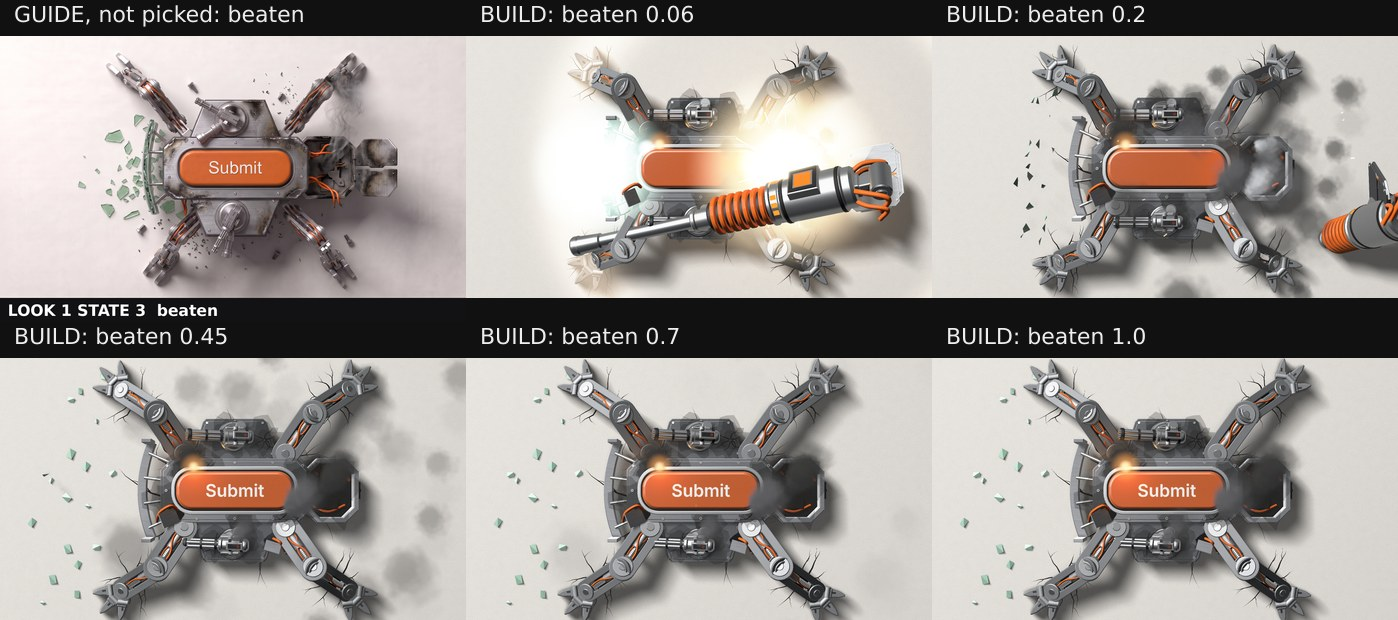
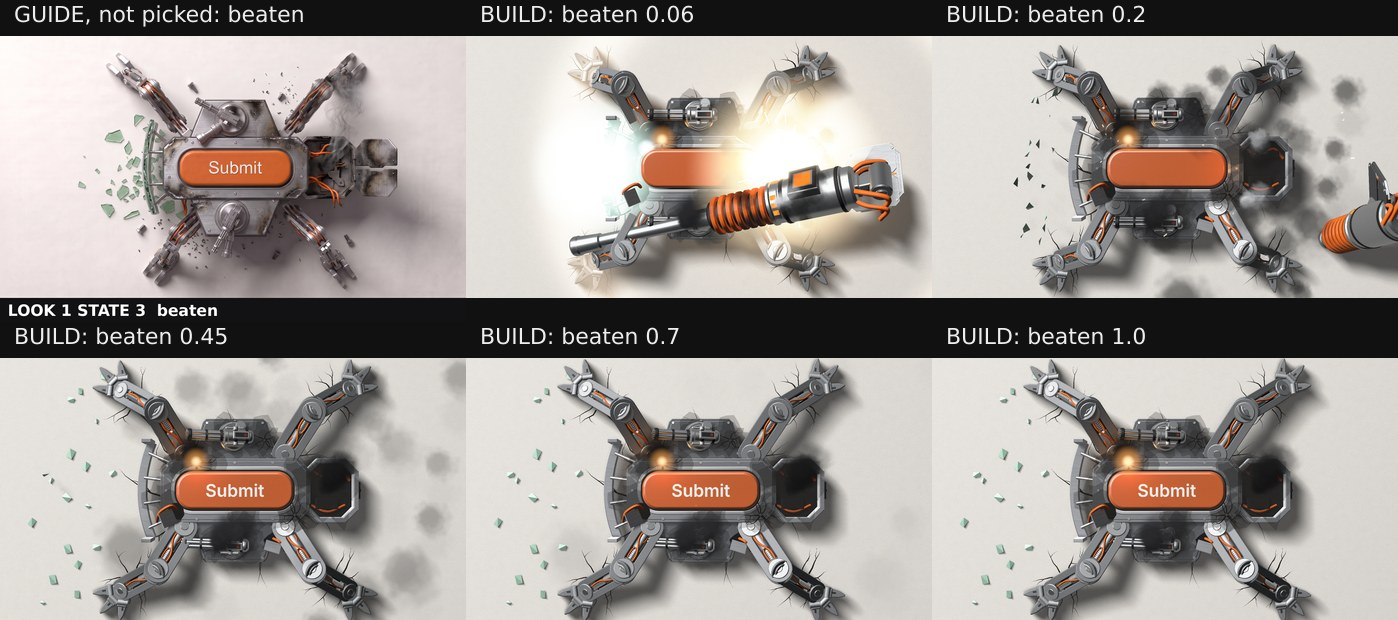
bosslook: smoke that reads dark, scorch on the plates that show, the open flank ringed, counts of the boss alone

diff --git a/src/boss/look1/fx.ts b/src/boss/look1/fx.ts
@@ -21,10 +21,10 @@ export interface Fx {
 const ORANGE: [number, number, number] = [1, 0.42, 0.1]
 const HOT: [number, number, number] = [1, 0.82, 0.55]
 const DUST: [number, number, number] = [0.42, 0.4, 0.37]
-const SMOKE: [number, number, number] = [0.085, 0.085, 0.09]
+const SMOKE: [number, number, number] = [0.018, 0.018, 0.02]
 const STEAM: [number, number, number] = [0.56, 0.57, 0.59]
 const SHADE: [number, number, number] = [0.05, 0.048, 0.045]
-const SOOT: [number, number, number] = [0.022, 0.021, 0.02]
+const SOOT: [number, number, number] = [0.006, 0.006, 0.006]
 
 function texture(alpha: (u: number, v: number) => number, n = 64): THREE.DataTexture {
   const data = new Uint8Array(n * n * 4)
@@ -75,8 +75,8 @@ class Sprites {
   private s = new THREE.Vector3()
   private c = new THREE.Color()
   private fade: THREE.InstancedBufferAttribute | null = null
-  constructor(private max: number, map: THREE.Texture, private additive: boolean, order: number) {
-    const mat = new THREE.MeshBasicMaterial({ map, transparent: true, depthWrite: false, blending: additive ? THREE.AdditiveBlending : THREE.NormalBlending, toneMapped: true })
+  constructor(private max: number, map: THREE.Texture, private additive: boolean, order: number, depth = true) {
+    const mat = new THREE.MeshBasicMaterial({ map, transparent: true, depthWrite: false, depthTest: depth, blending: additive ? THREE.AdditiveBlending : THREE.NormalBlending, toneMapped: true })
     const geo = new THREE.PlaneGeometry(1, 1)
     if (!additive) {
       this.fade = new THREE.InstancedBufferAttribute(new Float32Array(max), 1)
@@ -163,17 +163,19 @@ export function makeFx(o: LookOptions, level0: Level): Fx {
   const budget = (): { chunks: number; puffs: number; lamps: number } => COUNTS[level ?? 'film']
 
   const tex = { blob: texture(blob), puff: texture(puff, 128), ring: texture(ring, 128), bar: texture(bar, 32) }
-  const soft = new Sprites(360, tex.puff, false, 40)
-  const lit = (c: [number, number, number], k: number): [number, number, number] => [Math.min(1, c[0] * k + 0.02), Math.min(1, c[1] * k + 0.02), Math.min(1, c[2] * k + 0.02)]
+  const soft = new Sprites(260, tex.puff, false, 40, false)
+  const shade = new Sprites(130, tex.puff, false, 39)
+  const marks = new Sprites(8, tex.ring, false, 45, false)
+  const lit = (c: [number, number, number], k: number): [number, number, number] => [Math.min(1, c[0] * k + 0.003), Math.min(1, c[1] * k + 0.003), Math.min(1, c[2] * k + 0.003)]
   // Each puff is laid twice, a darker underside and a lighter top pushed toward the light, and throws a faint shade on the ground: that is all its volume.
   const smoke = {
     add(x: number, y: number, z: number, w: number, h: number, turn: number, colour: [number, number, number], a: number): void {
       if (a <= 0.003) return
-      if (z > 6) soft.add(x + z * 0.32, y - z * 0.42, 1.2, w * 1.15, h * 1.15, turn, SHADE, a * 0.3)
+      if (z > 6) shade.add(x + z * 0.32, y - z * 0.42, 1.2, w * 1.15, h * 1.15, turn, SHADE, a * 0.3)
       soft.add(x + w * 0.05, y - h * 0.05, z, w, h, turn, lit(colour, 0.55), a)
       soft.add(x - w * 0.07, y + h * 0.07, z + 0.4, w * 0.8, h * 0.8, turn + 1.7, lit(colour, 1.5), a * 0.85)
     },
-    begin: (): void => soft.begin(), end: (): void => soft.end(), dispose: (): void => soft.dispose(), mesh: soft.mesh
+    begin: (): void => { soft.begin(); shade.begin() }, end: (): void => { soft.end(); shade.end() }, dispose: (): void => { soft.dispose(); shade.dispose() }, mesh: soft.mesh
   }
   const glow = new Sprites(160, tex.blob, true, 50)
   const rings = new Sprites(24, tex.ring, true, 51)
@@ -211,7 +213,7 @@ export function makeFx(o: LookOptions, level0: Level): Fx {
     ground.add(m)
     return m
   })
-  object.add(ground, chunks.mesh, shards.mesh, balls.mesh, smoke.mesh, glow.mesh, rings.mesh, bars.mesh)
+  object.add(ground, chunks.mesh, shards.mesh, balls.mesh, shade.mesh, smoke.mesh, marks.mesh, glow.mesh, rings.mesh, bars.mesh)
 
   const rnd = (i: number, j: number): number => hash01(i, j, o.seed)
 
@@ -238,7 +240,7 @@ export function makeFx(o: LookOptions, level0: Level): Fx {
       const u = age / life
       const j = (rnd(k + id * 977, 31) - 0.5) * 2
       const s = size * (0.5 + 1.5 * u) * (0.8 + 0.4 * rnd(k + id * 977, 32))
-      smoke.add(x + (dx + 10 * j) * u * life, y + (dy + 8 * j) * u * life, z + 8 + 50 * u, s, s, rnd(k + id * 977, 33) * 6.28, colour, strength * Math.sin(Math.PI * Math.pow(u, 0.6)) * 0.9)
+      smoke.add(x + (dx + 10 * j) * u * life, y + (dy + 8 * j) * u * life, z + 6 + 34 * u, s, s, rnd(k + id * 977, 33) * 6.28, colour, strength * Math.sin(Math.PI * Math.pow(u, 0.6)) * 0.9)
     }
   }
   // Sparks thrown from a place at one moment.
@@ -280,7 +282,7 @@ export function makeFx(o: LookOptions, level0: Level): Fx {
       lamps++
       light({ x: x + 960, y: 540 - y, z, colour, power, reach })
     }
-    smoke.begin(); glow.begin(); rings.begin(); bars.begin(); chunks.begin(); shards.begin(); balls.begin()
+    smoke.begin(); marks.begin(); glow.begin(); rings.begin(); bars.begin(); chunks.begin(); shards.begin(); balls.begin()
 
     // The forming.
     const tf = f * TIMES.form
@@ -366,10 +368,10 @@ export function makeFx(o: LookOptions, level0: Level): Fx {
         }
       }
       if (b.locked || t >= 1) {
-        const [s1x, s1y] = fromBody(p, HATCH.cx + 70, 96)
-        const [s2x, s2y] = fromBody(p, HATCH.cx + 40, -100)
-        plume(s1x, s1y, 70, now, 0.14, 1.4, 5, 30, STEAM, 0.75, 12, 22)
-        plume(s2x, s2y, 70, now, 0.17, 1.3, 6, 26, STEAM, 0.65, 16, -10)
+        const [s1x, s1y] = fromBody(p, HATCH.cx + 86, 132)
+        const [s2x, s2y] = fromBody(p, HATCH.cx + 60, -138)
+        plume(s1x, s1y, 44, now, 0.16, 1.4, 5, 24, STEAM, 0.5, 14, 6)
+        plume(s2x, s2y, 44, now, 0.19, 1.3, 6, 21, STEAM, 0.42, 16, -12)
       }
       const lockAge = p.lockAge
       if (lockAge >= 0 && lockAge < 0.5) {
@@ -495,6 +497,9 @@ export function makeFx(o: LookOptions, level0: Level): Fx {
         const age = now - b.weak.shownAt
         const beat = 0.5 + 0.5 * Math.sin(age * 16)
         const s = 44 + 14 * beat
+        marks.add(wx2, wy2, 80, s * 1.5, s * 1.5, 0, [0.95, 0.12, 0.03], 0.75 + 0.25 * beat)
+        const grow = (age * 1.4) % 1
+        marks.add(wx2, wy2, 80, s * (1.5 + 1.3 * grow), s * (1.5 + 1.3 * grow), 0, [0.95, 0.12, 0.03], 0.6 * (1 - grow))
         rings.add(wx2, wy2, 64, s, s, 0, [1, 0.3, 0.12], 1.2 + 0.8 * beat)
         glow.add(wx2, wy2, 63, 54, 54, 0, [1, 0.25, 0.1], 0.5 + 0.5 * beat)
         lamp(wx2, wy2, 60, [1, 0.3, 0.12], 0.2 + 0.15 * beat, 120)
@@ -504,10 +509,10 @@ export function makeFx(o: LookOptions, level0: Level): Fx {
     // Damage: smoke where he is hurt, more as he falls from stage to stage; sparks that come and go at the last stage.
     if (p.shown && f >= 1 && (b.stage > 0 || beaten > 0)) {
       const heavy = b.stage >= 2 || beaten > 0
-      const [ax, ay] = fromBody(p, -212, 78)
-      plume(ax, ay, 66, now, heavy ? 0.09 : 0.13, 1.3, 11, heavy ? 40 : 30, SMOKE, heavy ? 0.8 : 0.62)
+      const [ax, ay] = fromBody(p, 70, 214)
+      plume(ax, ay, 64, now, heavy ? 0.09 : 0.13, 1.3, 11, heavy ? 40 : 30, SMOKE, heavy ? 0.8 : 0.62)
       if (heavy) {
-        const [cx2, cy2] = fromBody(p, 160, -92)
+        const [cx2, cy2] = fromBody(p, 150, -112)
         plume(cx2, cy2, 62, now, 0.11, 1.2, 12, 34, SOOT, 0.7, -8, 26)
         const flick = 0.6 + 0.4 * hash01(Math.floor(now * 24), 5, o.seed)
         glow.add(cx2, cy2, 70, 46 * flick + 14, 46 * flick + 14, 0, ORANGE, 0.9 * flick)
@@ -611,11 +616,11 @@ export function makeFx(o: LookOptions, level0: Level): Fx {
         lamp(x, y, 30, [1, 0.3, 0.15], 0.4 * k, 140)
       }
     }
-    smoke.end(); glow.end(); rings.end(); bars.end(); chunks.end(); shards.end(); balls.end()
+    smoke.end(); marks.end(); glow.end(); rings.end(); bars.end(); chunks.end(); shards.end(); balls.end()
   }
 
   const dispose = (): void => {
-    for (const s of [smoke, glow, rings, bars]) s.dispose()
+    for (const s of [smoke, marks, glow, rings, bars]) s.dispose()
     for (const s of [chunks, shards, balls]) s.dispose()
     ballMat.dispose()
     tex.blob.dispose(); tex.puff.dispose(); tex.ring.dispose(); tex.bar.dispose()

diff --git a/src/boss/look1/model.ts b/src/boss/look1/model.ts
@@ -289,19 +289,19 @@ export function buildModel(): Model {
   const scorch = (seed: number, r: number, x: number, y: number, z: number): THREE.BufferGeometry[] => [at(blot(seed, r, 22), x, y, z), at(blot(seed + 50, r * 0.74, 20), x + r * 0.06, y - r * 0.05, z + 0.15), at(blot(seed + 90, r * 0.46, 16), x - r * 0.05, y + r * 0.04, z + 0.3)]
   const d1 = new THREE.Group()
   d1.add(
-    mesh(geo('dmg1.soot', () => joined([...scorch(1, 96, -212, 78, HULL.top + 2), ...scorch(2, 78, 70, 214, WING.top + 2), ...scorch(3, 62, 204, -74, HULL.top + 2)])), kit.soot, false, false),
-    mesh(geo('dmg1.crack', () => joined([at(crackStar(31, 7, (a) => [Math.cos(a) * 5, Math.sin(a) * 5], 96, 3), -212, 78, HULL.top + 2.6), at(crackStar(32, 6, (a) => [Math.cos(a) * 4, Math.sin(a) * 4], 76, 2.6), 72, 214, WING.top + 2.6)])), kit.crack, false, false)
+    mesh(geo('dmg1.soot', () => joined([...scorch(1, 96, -236, 96, HULL.top + 8), ...scorch(2, 78, 70, 214, WING.top + 2), ...scorch(3, 70, 236, -92, HULL.top + 8)])), kit.soot, false, false),
+    mesh(geo('dmg1.crack', () => joined([at(crackStar(31, 7, (a) => [Math.cos(a) * 5, Math.sin(a) * 5], 96, 3), -236, 96, HULL.top + 8.6), at(crackStar(32, 6, (a) => [Math.cos(a) * 4, Math.sin(a) * 4], 76, 2.6), 72, 214, WING.top + 2.6)])), kit.crack, false, false)
   )
   const d2 = new THREE.Group()
   d2.add(
-    mesh(geo('dmg2.soot', () => joined([...scorch(4, 112, 160, -92, HULL.top + 2), ...scorch(5, 98, -118, -200, WING.top + 2), ...scorch(6, 80, -30, 110, HULL.top + 2), ...scorch(7, 84, HATCH.cx + 24, -56, HATCH.top + 2)])), kit.soot, false, false),
-    mesh(geo('dmg2.crack', () => joined([at(crackStar(33, 8, (a) => [Math.cos(a) * 6, Math.sin(a) * 6], 110, 3.2), 156, -88, HULL.top + 2.6), at(crackStar(34, 7, (a) => [Math.cos(a) * 5, Math.sin(a) * 5], 86, 2.8), -118, -200, WING.top + 2.6), at(crackStar(35, 6, (a) => [Math.cos(a) * 5, Math.sin(a) * 5], 80, 2.6), HATCH.cx + 24, -56, HATCH.top + 2.6)])), kit.crack, false, false),
-    mesh(geo('dmg2.hole', () => joined([at(blot(8, 40, 9), 232, 84, HULL.top + 2.8), at(blot(9, 34, 9), -150, 196, WING.top + 2.8)])), kit.bore, false, false),
+    mesh(geo('dmg2.soot', () => joined([...scorch(4, 112, 150, -104, HULL.top + 8), ...scorch(5, 98, -118, -200, WING.top + 2), ...scorch(6, 84, -40, 112, HULL.top + 8), ...scorch(7, 84, HATCH.cx + 24, -56, HATCH.top + 2)])), kit.soot, false, false),
+    mesh(geo('dmg2.crack', () => joined([at(crackStar(33, 8, (a) => [Math.cos(a) * 6, Math.sin(a) * 6], 110, 3.2), 150, -104, HULL.top + 8.6), at(crackStar(34, 7, (a) => [Math.cos(a) * 5, Math.sin(a) * 5], 86, 2.8), -118, -200, WING.top + 2.6), at(crackStar(35, 6, (a) => [Math.cos(a) * 5, Math.sin(a) * 5], 80, 2.6), HATCH.cx + 24, -56, HATCH.top + 2.6)])), kit.crack, false, false),
+    mesh(geo('dmg2.hole', () => joined([at(blot(8, 40, 9), 232, 84, HULL.top + 8.8), at(blot(9, 34, 9), -150, 196, WING.top + 2.8)])), kit.bore, false, false),
     mesh(geo('dmg2.plate', () => joined([boxAt(-40, -30, 0, 40, 30, 6, 1.5).rotateY(-0.5).rotateZ(0.4).translate(258, 108, HULL.top + 14), boxAt(-32, -24, 0, 32, 24, 5, 1.2).rotateX(0.6).rotateZ(-0.3).translate(-150, 226, WING.top + 12)])), kit.plate),
     mesh(geo('dmg2.hose', () => joined([hose([[226, 80, HULL.top - 4], [250, 60, HULL.top + 34], [292, 84, HULL.top + 26], [312, 124, HULL.top - 30]], 6.5, 16, 7), hose([[-150, 190, WING.top - 4], [-178, 204, WING.top + 26], [-202, 244, WING.top - 20]], 5.5, 12, 7)])), kit.orange)
   )
   const d3 = new THREE.Group()
-  d3.add(mesh(geo('dmg3.soot', () => joined([...scorch(10, 150, HATCH.cx + 20, 10, HATCH.top + 2.4), ...scorch(11, 104, -262, -60, HULL.top + 2.2), ...scorch(12, 100, 262, 40, HULL.top + 2.2), ...scorch(13, 96, 30, -212, WING.top + 2.2), ...scorch(14, 90, -40, 208, WING.top + 2.2)])), kit.soot, false, false))
+  d3.add(mesh(geo('dmg3.soot', () => joined([...scorch(10, 150, HATCH.cx + 20, 10, HATCH.top + 2.4), ...scorch(11, 104, -262, -60, HULL.top + 8.2), ...scorch(12, 100, 262, 40, HULL.top + 8.2), ...scorch(13, 96, 30, -212, WING.top + 2.2), ...scorch(14, 90, -40, 208, WING.top + 2.2)])), kit.soot, false, false))
   d1.visible = false
   d2.visible = false
   d3.visible = false

diff --git a/tools/bosslook/main.ts b/tools/bosslook/main.ts
@@ -1,6 +1,7 @@
 // The harness of look 1: the site's own engine, light, studio and ground on an empty page, with the boss added from a hand-written view.
 import { App } from '../../src/app'
 import { makeBoss, type BossLook } from '../../src/boss/look1'
+import * as THREE from 'three'
 import type { BossView } from '../../src/boss/view'
 import { label } from '../../src/boss/body'
 import { restPose } from '../../src/cursor/body'
@@ -60,5 +61,43 @@ async function counts(spec: Spec): Promise<{ with: { triangles: number; drawCall
   return { with: a, without }
 }
 
-declare global { interface Window { bosslook: { ready: Promise<void>; render: typeof render; counts: typeof counts } } }
-window.bosslook = { ready, render, counts }
+// What the boss himself costs: the triangles and the draws of his own meshes as they stand now, one pass.
+function tally(): { triangles: number; draws: number } {
+  let triangles = 0
+  let draws = 0
+  boss!.object.traverseVisible((o) => {
+    const m = o as THREE.Mesh & { count?: number; isInstancedMesh?: boolean }
+    if (!m.isMesh) return
+    const g = m.geometry
+    const n = (g.index ? g.index.count : g.getAttribute('position').count) / 3
+    const k = m.isInstancedMesh ? (m.count ?? 1) : 1
+    if (k === 0) return
+    triangles += n * k
+    draws += 1
+  })
+  return { triangles, draws }
+}
+
+// Frame time at a live level: the median of `n` frames with the boss and of `n` without, in turn.
+async function timing(spec: Spec, n: number): Promise<{ own: { triangles: number; draws: number }; frame: { triangles: number; drawCalls: number }; bare: { triangles: number; drawCalls: number }; withMs: number; withoutMs: number }> {
+  await render(spec)
+  const own = tally()
+  const frame = { ...app.engine.lastCounts }
+  const shot = async (): Promise<number> => { const t0 = performance.now(); await app.engine.picture(app.shot(), { samples: 1, frame: 0, diagnostic: 'beauty' }); return performance.now() - t0 }
+  const mid = (a: number[]): number => a.sort((x, y) => x - y)[Math.floor(a.length / 2)]!
+  const a: number[] = []
+  const b: number[] = []
+  let bare = frame
+  for (let i = 0; i < n; i++) {
+    boss!.object.visible = true
+    a.push(await shot())
+    boss!.object.visible = false
+    b.push(await shot())
+    bare = { ...app.engine.lastCounts }
+  }
+  boss!.object.visible = true
+  return { own, frame, bare, withMs: mid(a), withoutMs: mid(b) }
+}
+
+declare global { interface Window { bosslook: { ready: Promise<void>; render: typeof render; counts: typeof counts; timing: typeof timing } } }
+window.bosslook = { ready, render, counts, timing }

diff --git a/src/boss/look1/pose.ts b/src/boss/look1/pose.ts
@@ -270,7 +270,7 @@ export function poseOf(view: BossView, o: LookOptions = DEFAULTS): Pose {
     hatch: { x: HATCH.cx - HATCH.slide * hatchOpen, z: HATCH.top + 7 * bump(t, TURRET.hatch[0], TURRET.hatch[0] + 0.06) + (hatchOpen > 0 ? 3 * hatchOpen : 0), seam: 1.4 + 3 * bump(t, 0, 0.2) + 0.6 * Math.sin(now * 3) * 0.3, gone: off },
     shield: { rise: shieldUp, slide: shieldOut, flash: kick(since(now, b.shield.glancedAt), TIMES.glance), broken: lin(beaten, 0.05, 0.3), show: f >= FORM.shield[0] },
     guns, legs, cannon,
-    weak: b.weak ? (b.weak.shownAt === null ? 0 : 0.5 + 0.5 * Math.sin((now - b.weak.shownAt) * 16)) * 4 : 0,
+    weak: b.weak ? (b.weak.shownAt === null ? 0 : 1.6 + 2.6 * (0.5 + 0.5 * Math.sin((now - b.weak.shownAt) * 16))) : 0,
     damage: f < 1 ? 0 : beaten > 0.02 ? 3 : b.stage, hurt, heal: healNow, sag: sagPart, lockAge, word
   }
 }
